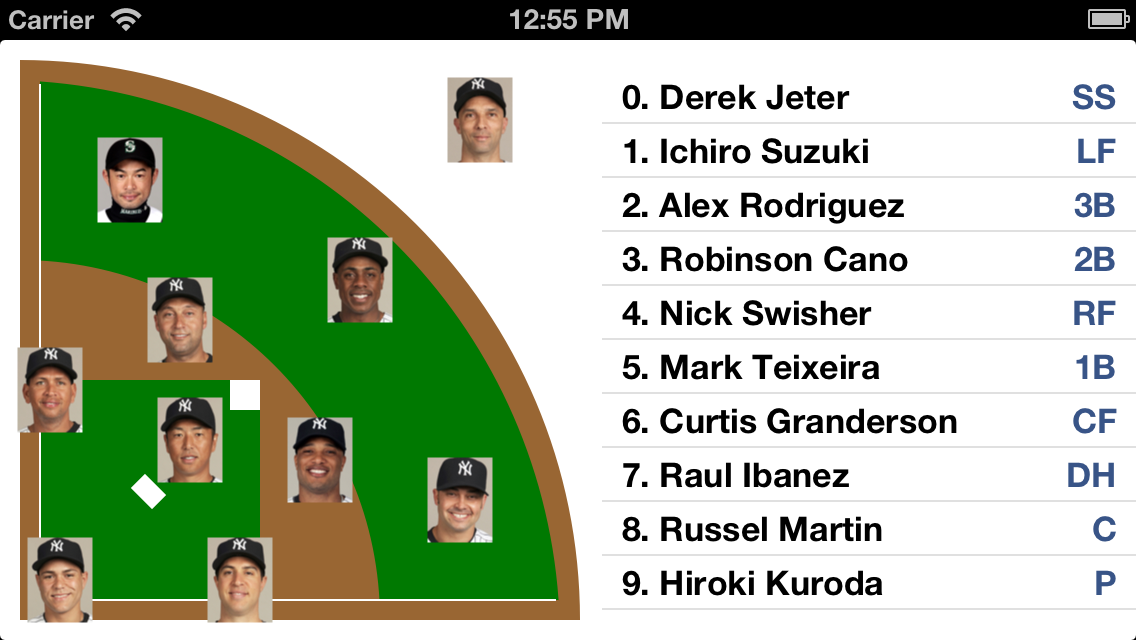
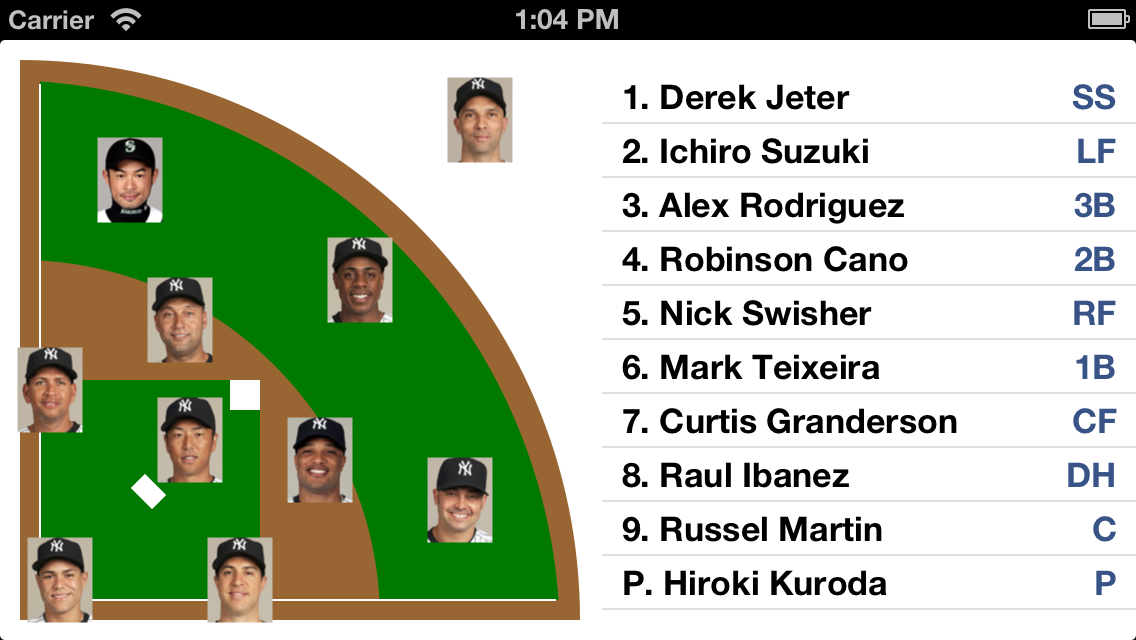
Fixed a bug on the batting order prefix.

diff --git a/YankeesRoster/ViewController.m b/YankeesRoster/ViewController.m
@@ -72,7 +72,8 @@ static inline BOOL isIphone5() {
 {
     UITableViewCell * cell = [tableView dequeueReusableCellWithIdentifier:@"Cell"];
     
-    cell.textLabel.text = [NSString stringWithFormat:@"%d. %@", indexPath.row, self.rosterNames[indexPath.row]];
+    NSString * prefix = (indexPath.row < 9) ? [NSString stringWithFormat:@"%d.", indexPath.row + 1] : @"P.";
+    cell.textLabel.text = [NSString stringWithFormat:@"%@ %@", prefix, self.rosterNames[indexPath.row]];
     cell.detailTextLabel.text = self.rosterPositions[indexPath.row];
     
     if(isIphone5())
